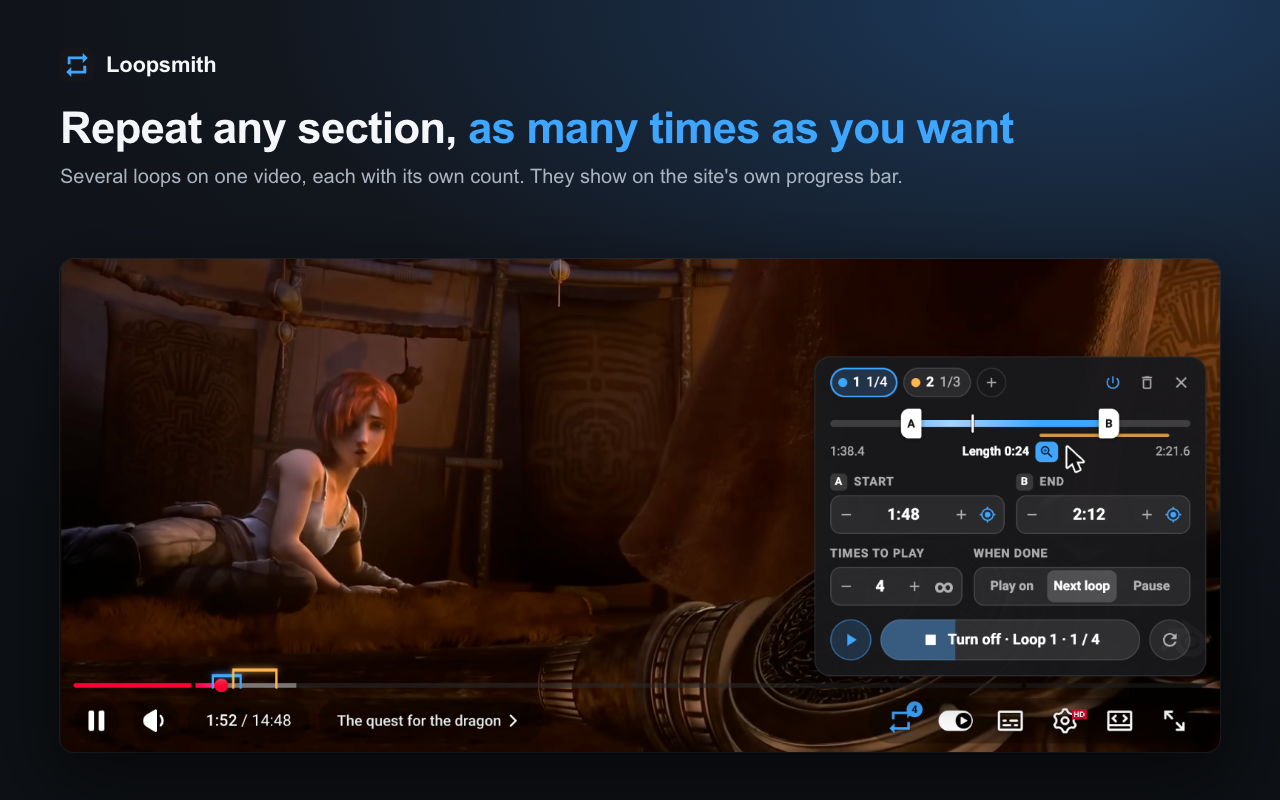
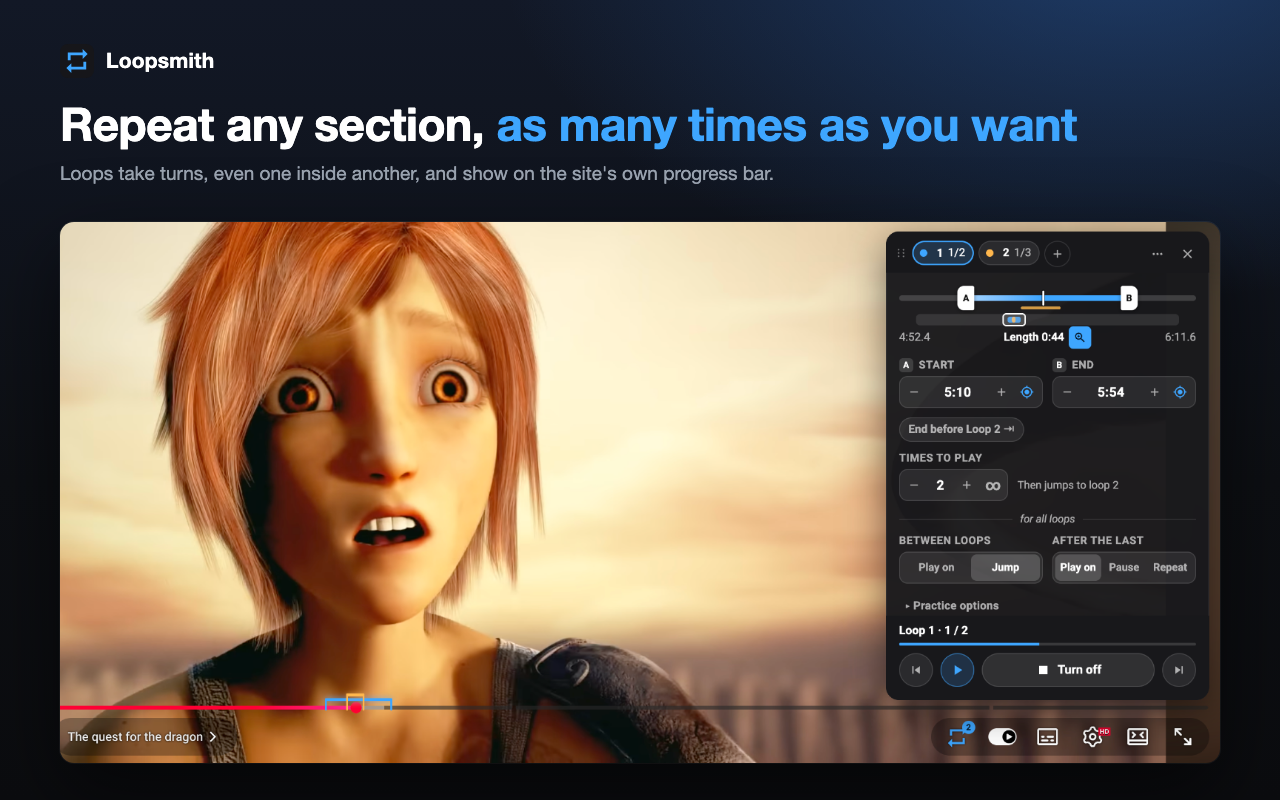
updated store img and desc

diff --git a/store/listing.md b/store/listing.md
@@ -16,14 +16,15 @@ It is made for two things: practising (a guitar riff, the hard part of a song, a
 WHAT YOU CAN DO
 • Set the start and end by dragging the A and B handles, typing a time (1:23, 90s, 1m30s), or grabbing the current position.
 • Choose how many times a section plays, from 1 to 999, or forever.
-• Add several loops on the same video or track, even overlapping ones. Switch a loop off without deleting it.
+• Add several loops on the same video or track, even overlapping or nested ones. Switch a loop off without deleting it.
 • Decide what happens between loops (play on, or jump straight to the next one) and after the last one (play on, pause, or play them all again).
 • See your loops on the site's own progress bar.
-• Your loops are saved and come back when you return.
+• Start in one click: loop the whole video or track, or 30 seconds from where you are.
+• Your loops are saved and come back when you return. If you like, looping turns on by itself when you do.
 • Loops inside other loops wait for their turn. Skip to the next or previous loop, skip a repetition, or jump to any loop.
 • Zoom the slider with the mouse wheel, snap loops to each other, or tap a key while playing to mark sections.
 • Practise with a gap between plays and a count-in.
-• Keyboard shortcuts: Shift+A / Shift+B set the start / end to now, Shift+S plays the loop, Shift+R turns looping on or off, Shift+] and Shift+[ go to the next or previous loop.
+• Keyboard shortcuts: Shift+A / Shift+B set the start / end to now, Shift+S plays the loop, Shift+R turns looping on or off, Shift+] and Shift+[ go to the next or previous loop, Shift+M taps out sections while it plays.
 
 WHERE IT WORKS
 Loopsmith works out of the box on YouTube, Spotify and other popular video and music sites. On any other website with a video or audio player, click the Loopsmith icon and choose "Turn on for this site": it only runs where you allow it.
@@ -42,7 +43,7 @@ Live streams can't be looped, since there is nothing to go back to. Loopsmith is
 
 **Icône du magasin:** `store-icon-128.png` (96 px artwork with 16 px transparent margin, as Google asks).
 
-**Captures d'écran:** `screenshot-1-youtube.png`, `screenshot-2-soundcloud.png`, `screenshot-3-any-site.png` (1280 × 800, PNG without alpha).
+**Captures d'écran:** `screenshot-1-youtube.png`, `screenshot-2-bandcamp.png`, `screenshot-3-any-site.png` (1280 × 800, PNG without alpha).
 
 **Petite image promotionnelle:** `promo-small-440x280.png`
 

diff --git a/store/firefox-listing.md b/store/firefox-listing.md
@@ -19,14 +19,15 @@ It is made for two things: practising (a guitar riff, the hard part of a song, a
 
 - Set the start and end by dragging the A and B handles, typing a time (1:23, 90s, 1m30s), or grabbing the current position.
 - Choose how many times a section plays, from 1 to 999, or forever.
-- Add several loops on the same video or track, even overlapping ones. Switch a loop off without deleting it.
+- Add several loops on the same video or track, even overlapping or nested ones. Switch a loop off without deleting it.
 - Decide what happens between loops (play on, or jump straight to the next one) and after the last one (play on, pause, or play them all again).
 - See your loops on the site's own progress bar.
-- Your loops are saved and come back when you return.
+- Start in one click: loop the whole video or track, or 30 seconds from where you are.
+- Your loops are saved and come back when you return. If you like, looping turns on by itself when you do.
 - Loops inside other loops wait for their turn. Skip to the next or previous loop, skip a repetition, or jump to any loop.
 - Zoom the slider with the mouse wheel, snap loops to each other, or tap a key while playing to mark sections.
 - Practise with a gap between plays and a count-in.
-- Keyboard shortcuts: Shift+A / Shift+B set the start / end to now, Shift+S plays the loop, Shift+R turns looping on or off, Shift+] and Shift+[ go to the next or previous loop.
+- Keyboard shortcuts: Shift+A / Shift+B set the start / end to now, Shift+S plays the loop, Shift+R turns looping on or off, Shift+] and Shift+[ go to the next or previous loop, Shift+M taps out sections while it plays.
 
 **Where it works**
 
